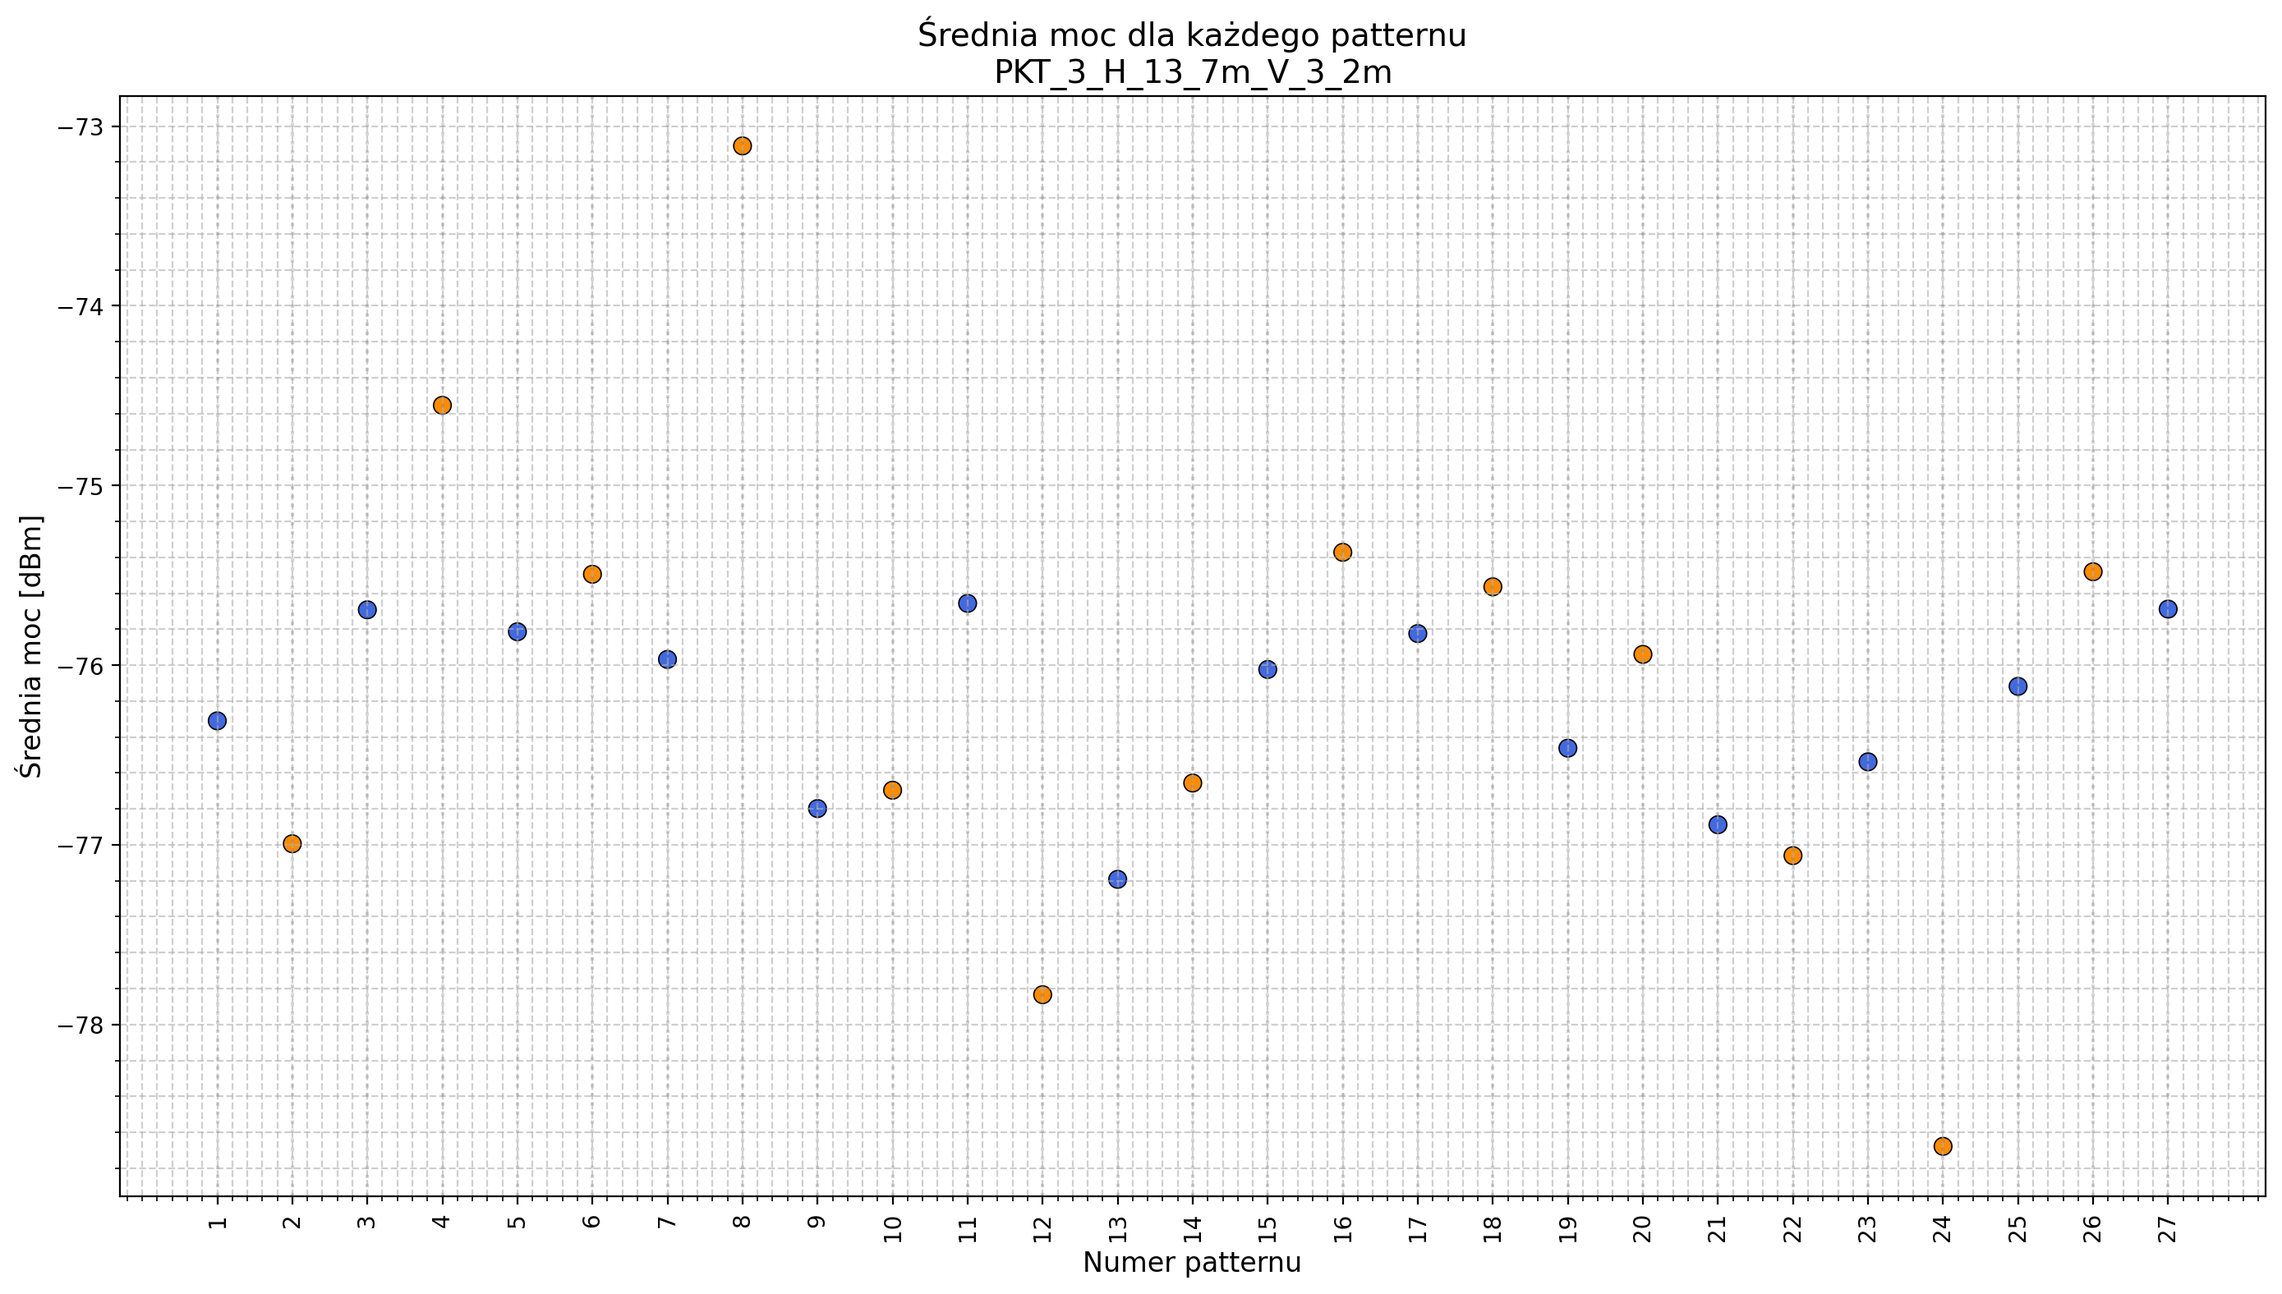
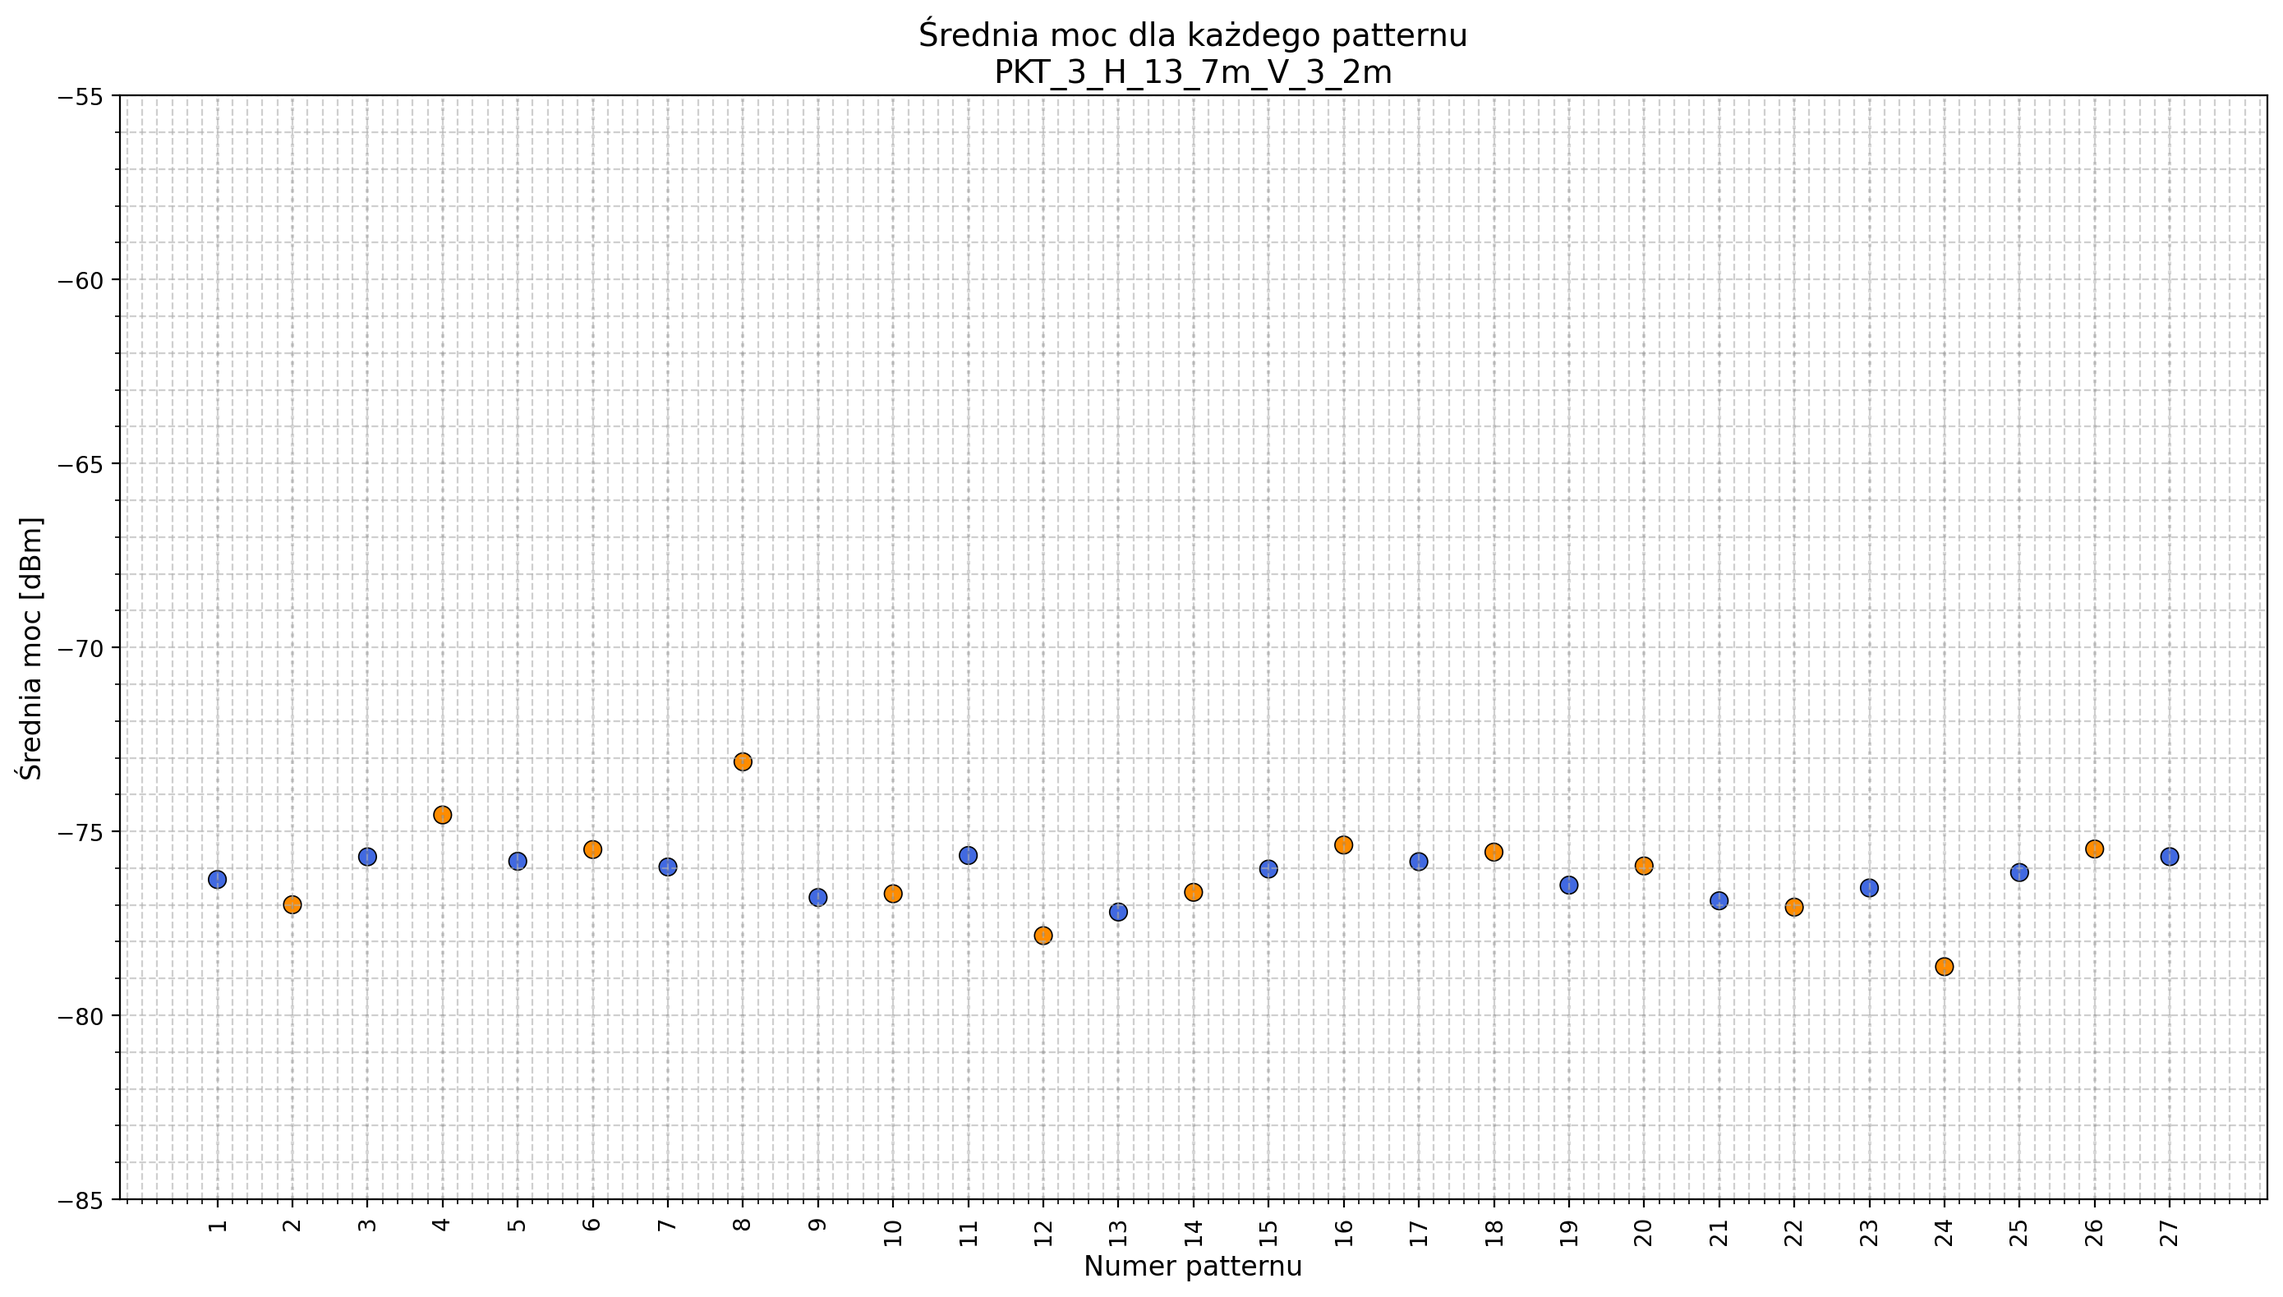
skale poprawione

diff --git a/DANE_Z_POMIAROW/KAKOLEWO_25/pazdziernik_pomiary/21_10_25/scenariusz_siatka/minmax.py b/DANE_Z_POMIAROW/KAKOLEWO_25/pazdziernik_pomiary/21_10_25/scenariusz_siatka/minmax.py
@@ -7,7 +7,9 @@ import re
 from tqdm import tqdm
 
 # Folder z plikami CSV
-input_dir = r"C:\Users\d0437921\Documents\GitHub\Python_RIS\DANE_Z_POMIAROW\KAKOLEWO_25\pazdziernik_pomiary\21_10_25\scenariusz_siatka"
+input_dir = (
+    r"DANE_Z_POMIAROW/KAKOLEWO_25/pazdziernik_pomiary/21_10_25/scenariusz_siatka"
+)
 
 # Folder na wykresy
 output_dir = os.path.join(input_dir, "wykresy")
@@ -15,24 +17,24 @@ os.makedirs(output_dir, exist_ok=True)
 
 # Lista plików CSV
 file_list = [
-    "C:\\Users\\d0437921\\Documents\\GitHub\\Python_RIS\\DANE_Z_POMIAROW\\KAKOLEWO_25\\pazdziernik_pomiary\\21_10_25\\scenariusz_siatka\\PKT_1_H_8_7m_V_3_5m.csv",
-    "C:\\Users\\d0437921\\Documents\\GitHub\\Python_RIS\\DANE_Z_POMIAROW\\KAKOLEWO_25\\pazdziernik_pomiary\\21_10_25\\scenariusz_siatka\\PKT_1_H_13_7m_V_1_2m.csv",
-    "C:\\Users\\d0437921\\Documents\\GitHub\\Python_RIS\\DANE_Z_POMIAROW\\KAKOLEWO_25\\pazdziernik_pomiary\\21_10_25\\scenariusz_siatka\\PKT_2_H_8_7m_V_3m.csv",
-    "C:\\Users\\d0437921\\Documents\\GitHub\\Python_RIS\\DANE_Z_POMIAROW\\KAKOLEWO_25\\pazdziernik_pomiary\\21_10_25\\scenariusz_siatka\\PKT_2_H_13_7m_V_2_5m.csv",
-    "C:\\Users\\d0437921\\Documents\\GitHub\\Python_RIS\\DANE_Z_POMIAROW\\KAKOLEWO_25\\pazdziernik_pomiary\\21_10_25\\scenariusz_siatka\\PKT_3_H_8_7m_V_4_2m.csv",
-    "C:\\Users\\d0437921\\Documents\\GitHub\\Python_RIS\\DANE_Z_POMIAROW\\KAKOLEWO_25\\pazdziernik_pomiary\\21_10_25\\scenariusz_siatka\\PKT_3_H_13_7m_V_3_2m.csv",
-    "C:\\Users\\d0437921\\Documents\\GitHub\\Python_RIS\\DANE_Z_POMIAROW\\KAKOLEWO_25\\pazdziernik_pomiary\\21_10_25\\scenariusz_siatka\\PKT_4_H_8_7m_V_2m.csv",
-    "C:\\Users\\d0437921\\Documents\\GitHub\\Python_RIS\\DANE_Z_POMIAROW\\KAKOLEWO_25\\pazdziernik_pomiary\\21_10_25\\scenariusz_siatka\\PKT_4_H_13_7m_V_2m.csv.csv",
-    "C:\\Users\\d0437921\\Documents\\GitHub\\Python_RIS\\DANE_Z_POMIAROW\\KAKOLEWO_25\\pazdziernik_pomiary\\21_10_25\\scenariusz_siatka\\PKT_5_H_8_7m_V_3m.csv",
-    "C:\\Users\\d0437921\\Documents\\GitHub\\Python_RIS\\DANE_Z_POMIAROW\\KAKOLEWO_25\\pazdziernik_pomiary\\21_10_25\\scenariusz_siatka\\PKT_5_H_13_7m_V_1_7m.csv",
-    "C:\\Users\\d0437921\\Documents\\GitHub\\Python_RIS\\DANE_Z_POMIAROW\\KAKOLEWO_25\\pazdziernik_pomiary\\21_10_25\\scenariusz_siatka\\PKT_6_H_8_7m_V_3m.csv",
-    "C:\\Users\\d0437921\\Documents\\GitHub\\Python_RIS\\DANE_Z_POMIAROW\\KAKOLEWO_25\\pazdziernik_pomiary\\21_10_25\\scenariusz_siatka\\PKT_6_H_13_7m_V_3_5m.csv",
-    "C:\\Users\\d0437921\\Documents\\GitHub\\Python_RIS\\DANE_Z_POMIAROW\\KAKOLEWO_25\\pazdziernik_pomiary\\21_10_25\\scenariusz_siatka\\PKT_7_H_8_7m_V_3_5m.csv.csv",
-    "C:\\Users\\d0437921\\Documents\\GitHub\\Python_RIS\\DANE_Z_POMIAROW\\KAKOLEWO_25\\pazdziernik_pomiary\\21_10_25\\scenariusz_siatka\\PKT_7_H_13_7m_V_1_9m.csv",
-    "C:\\Users\\d0437921\\Documents\\GitHub\\Python_RIS\\DANE_Z_POMIAROW\\KAKOLEWO_25\\pazdziernik_pomiary\\21_10_25\\scenariusz_siatka\\PKT_8_H_8_7m_V_3m.csv.csv",
-    "C:\\Users\\d0437921\\Documents\\GitHub\\Python_RIS\\DANE_Z_POMIAROW\\KAKOLEWO_25\\pazdziernik_pomiary\\21_10_25\\scenariusz_siatka\\PKT_8_H_13_7m_V_2m.csv",
-    "C:\\Users\\d0437921\\Documents\\GitHub\\Python_RIS\\DANE_Z_POMIAROW\\KAKOLEWO_25\\pazdziernik_pomiary\\21_10_25\\scenariusz_siatka\\PKT_9_H_8_7m_V_3_5m.csv",
-    "C:\\Users\\d0437921\\Documents\\GitHub\\Python_RIS\\DANE_Z_POMIAROW\\KAKOLEWO_25\\pazdziernik_pomiary\\21_10_25\\scenariusz_siatka\\PKT_9_H_13_7m_V_3_2m.csv",
+    "DANE_Z_POMIAROW/KAKOLEWO_25/pazdziernik_pomiary/21_10_25/scenariusz_siatka/PKT_1_H_8_7m_V_3_5m.csv",
+    "DANE_Z_POMIAROW/KAKOLEWO_25/pazdziernik_pomiary/21_10_25/scenariusz_siatka/PKT_1_H_13_7m_V_1_2m.csv",
+    "DANE_Z_POMIAROW/KAKOLEWO_25/pazdziernik_pomiary/21_10_25/scenariusz_siatka/PKT_2_H_8_7m_V_3m.csv",
+    "DANE_Z_POMIAROW/KAKOLEWO_25/pazdziernik_pomiary/21_10_25/scenariusz_siatka/PKT_2_H_13_7m_V_2_5m.csv",
+    "DANE_Z_POMIAROW/KAKOLEWO_25/pazdziernik_pomiary/21_10_25/scenariusz_siatka/PKT_3_H_8_7m_V_4_2m.csv",
+    "DANE_Z_POMIAROW/KAKOLEWO_25/pazdziernik_pomiary/21_10_25/scenariusz_siatka/PKT_3_H_13_7m_V_3_2m.csv",
+    "DANE_Z_POMIAROW/KAKOLEWO_25/pazdziernik_pomiary/21_10_25/scenariusz_siatka/PKT_4_H_8_7m_V_2m.csv",
+    "DANE_Z_POMIAROW/KAKOLEWO_25/pazdziernik_pomiary/21_10_25/scenariusz_siatka/PKT_4_H_13_7m_V_2m.csv.csv",
+    "DANE_Z_POMIAROW/KAKOLEWO_25/pazdziernik_pomiary/21_10_25/scenariusz_siatka/PKT_5_H_8_7m_V_3m.csv",
+    "DANE_Z_POMIAROW/KAKOLEWO_25/pazdziernik_pomiary/21_10_25/scenariusz_siatka/PKT_5_H_13_7m_V_1_7m.csv",
+    "DANE_Z_POMIAROW/KAKOLEWO_25/pazdziernik_pomiary/21_10_25/scenariusz_siatka/PKT_6_H_8_7m_V_3m.csv",
+    "DANE_Z_POMIAROW/KAKOLEWO_25/pazdziernik_pomiary/21_10_25/scenariusz_siatka/PKT_6_H_13_7m_V_3_5m.csv",
+    "DANE_Z_POMIAROW/KAKOLEWO_25/pazdziernik_pomiary/21_10_25/scenariusz_siatka/PKT_7_H_8_7m_V_3_5m.csv.csv",
+    "DANE_Z_POMIAROW/KAKOLEWO_25/pazdziernik_pomiary/21_10_25/scenariusz_siatka/PKT_7_H_13_7m_V_1_9m.csv",
+    "DANE_Z_POMIAROW/KAKOLEWO_25/pazdziernik_pomiary/21_10_25/scenariusz_siatka/PKT_8_H_8_7m_V_3m.csv.csv",
+    "DANE_Z_POMIAROW/KAKOLEWO_25/pazdziernik_pomiary/21_10_25/scenariusz_siatka/PKT_8_H_13_7m_V_2m.csv",
+    "DANE_Z_POMIAROW/KAKOLEWO_25/pazdziernik_pomiary/21_10_25/scenariusz_siatka/PKT_9_H_8_7m_V_3_5m.csv",
+    "DANE_Z_POMIAROW/KAKOLEWO_25/pazdziernik_pomiary/21_10_25/scenariusz_siatka/PKT_9_H_13_7m_V_3_2m.csv",
 ]
 
 # Układ punktów w macierzy 3x3
@@ -102,13 +104,15 @@ def process_heatmaps(file_list):
             min_nums,
             annot=min_texts,
             fmt="",
-            cmap="coolwarm",
+            cmap="viridis",
             cbar_kws={"label": "Moc [dBm]"},
             xticklabels=[1, 2, 3],
             yticklabels=[1, 2, 3],
             square=True,
             linewidths=0.5,
             linecolor="gray",
+            vmin=-90,  # 🔹 Minimalna wartość skali
+            vmax=-50,
         )
         plt.title(f"Mapa cieplna (MIN) - {group_name}")
         plt.xlabel("Kolumna PKT")
@@ -126,13 +130,15 @@ def process_heatmaps(file_list):
             max_nums,
             annot=max_texts,
             fmt="",
-            cmap="coolwarm",
+            cmap="viridis",
             cbar_kws={"label": "Moc [dBm]"},
             xticklabels=[1, 2, 3],
             yticklabels=[1, 2, 3],
             square=True,
             linewidths=0.5,
             linecolor="gray",
+            vmin=-90,  # 🔹 Minimalna wartość skali
+            vmax=-50,
         )
         plt.title(f"Mapa cieplna (MAX) - {group_name}")
         plt.xlabel("Kolumna PKT")

diff --git a/DANE_Z_POMIAROW/KAKOLEWO_25/pazdziernik_pomiary/21_10_25/scenariusz_siatka/wykresy.py b/DANE_Z_POMIAROW/KAKOLEWO_25/pazdziernik_pomiary/21_10_25/scenariusz_siatka/wykresy.py
@@ -5,24 +5,24 @@ from tqdm import tqdm
 
 # 🔧 Lista plików CSV do przetworzenia
 file_list = [
-    "C:\\Users\\d0437921\\Documents\\GitHub\\Python_RIS\\DANE_Z_POMIAROW\\KAKOLEWO_25\\pazdziernik_pomiary\\21_10_25\\scenariusz_siatka\\PKT_1_H_8_7m_V_3_5m.csv",
-    "C:\\Users\\d0437921\\Documents\\GitHub\\Python_RIS\\DANE_Z_POMIAROW\\KAKOLEWO_25\\pazdziernik_pomiary\\21_10_25\\scenariusz_siatka\\PKT_1_H_13_7m_V_1_2m.csv",
-    "C:\\Users\\d0437921\\Documents\\GitHub\\Python_RIS\\DANE_Z_POMIAROW\\KAKOLEWO_25\\pazdziernik_pomiary\\21_10_25\\scenariusz_siatka\\PKT_2_H_8_7m_V_3m.csv",
-    "C:\\Users\\d0437921\\Documents\\GitHub\\Python_RIS\\DANE_Z_POMIAROW\\KAKOLEWO_25\\pazdziernik_pomiary\\21_10_25\\scenariusz_siatka\\PKT_2_H_13_7m_V_2_5m.csv",
-    "C:\\Users\\d0437921\\Documents\\GitHub\\Python_RIS\\DANE_Z_POMIAROW\\KAKOLEWO_25\\pazdziernik_pomiary\\21_10_25\\scenariusz_siatka\\PKT_3_H_8_7m_V_4_2m.csv",
-    "C:\\Users\\d0437921\\Documents\\GitHub\\Python_RIS\\DANE_Z_POMIAROW\\KAKOLEWO_25\\pazdziernik_pomiary\\21_10_25\\scenariusz_siatka\\PKT_3_H_13_7m_V_3_2m.csv",
-    "C:\\Users\\d0437921\\Documents\\GitHub\\Python_RIS\\DANE_Z_POMIAROW\\KAKOLEWO_25\\pazdziernik_pomiary\\21_10_25\\scenariusz_siatka\\PKT_4_H_8_7m_V_2m.csv",
-    "C:\\Users\\d0437921\\Documents\\GitHub\\Python_RIS\\DANE_Z_POMIAROW\\KAKOLEWO_25\\pazdziernik_pomiary\\21_10_25\\scenariusz_siatka\\PKT_4_H_13_7m_V_2m.csv.csv",
-    "C:\\Users\\d0437921\\Documents\\GitHub\\Python_RIS\\DANE_Z_POMIAROW\\KAKOLEWO_25\\pazdziernik_pomiary\\21_10_25\\scenariusz_siatka\\PKT_5_H_8_7m_V_3m.csv",
-    "C:\\Users\\d0437921\\Documents\\GitHub\\Python_RIS\\DANE_Z_POMIAROW\\KAKOLEWO_25\\pazdziernik_pomiary\\21_10_25\\scenariusz_siatka\\PKT_5_H_13_7m_V_1_7m.csv",
-    "C:\\Users\\d0437921\\Documents\\GitHub\\Python_RIS\\DANE_Z_POMIAROW\\KAKOLEWO_25\\pazdziernik_pomiary\\21_10_25\\scenariusz_siatka\\PKT_6_H_8_7m_V_3m.csv",
-    "C:\\Users\\d0437921\\Documents\\GitHub\\Python_RIS\\DANE_Z_POMIAROW\\KAKOLEWO_25\\pazdziernik_pomiary\\21_10_25\\scenariusz_siatka\\PKT_6_H_13_7m_V_3_5m.csv",
-    "C:\\Users\\d0437921\\Documents\\GitHub\\Python_RIS\\DANE_Z_POMIAROW\\KAKOLEWO_25\\pazdziernik_pomiary\\21_10_25\\scenariusz_siatka\\PKT_7_H_8_7m_V_3_5m.csv.csv",
-    "C:\\Users\\d0437921\\Documents\\GitHub\\Python_RIS\\DANE_Z_POMIAROW\\KAKOLEWO_25\\pazdziernik_pomiary\\21_10_25\\scenariusz_siatka\\PKT_7_H_13_7m_V_1_9m.csv",
-    "C:\\Users\\d0437921\\Documents\\GitHub\\Python_RIS\\DANE_Z_POMIAROW\\KAKOLEWO_25\\pazdziernik_pomiary\\21_10_25\\scenariusz_siatka\\PKT_8_H_8_7m_V_3m.csv.csv",
-    "C:\\Users\\d0437921\\Documents\\GitHub\\Python_RIS\\DANE_Z_POMIAROW\\KAKOLEWO_25\\pazdziernik_pomiary\\21_10_25\\scenariusz_siatka\\PKT_8_H_13_7m_V_2m.csv",
-    "C:\\Users\\d0437921\\Documents\\GitHub\\Python_RIS\\DANE_Z_POMIAROW\\KAKOLEWO_25\\pazdziernik_pomiary\\21_10_25\\scenariusz_siatka\\PKT_9_H_8_7m_V_3_5m.csv",
-    "C:\\Users\\d0437921\\Documents\\GitHub\\Python_RIS\\DANE_Z_POMIAROW\\KAKOLEWO_25\\pazdziernik_pomiary\\21_10_25\\scenariusz_siatka\\PKT_9_H_13_7m_V_3_2m.csv",
+    "DANE_Z_POMIAROW/KAKOLEWO_25/pazdziernik_pomiary/21_10_25/scenariusz_siatka/PKT_1_H_8_7m_V_3_5m.csv",
+    "DANE_Z_POMIAROW/KAKOLEWO_25/pazdziernik_pomiary/21_10_25/scenariusz_siatka/PKT_1_H_13_7m_V_1_2m.csv",
+    "DANE_Z_POMIAROW/KAKOLEWO_25/pazdziernik_pomiary/21_10_25/scenariusz_siatka/PKT_2_H_8_7m_V_3m.csv",
+    "DANE_Z_POMIAROW/KAKOLEWO_25/pazdziernik_pomiary/21_10_25/scenariusz_siatka/PKT_2_H_13_7m_V_2_5m.csv",
+    "DANE_Z_POMIAROW/KAKOLEWO_25/pazdziernik_pomiary/21_10_25/scenariusz_siatka/PKT_3_H_8_7m_V_4_2m.csv",
+    "DANE_Z_POMIAROW/KAKOLEWO_25/pazdziernik_pomiary/21_10_25/scenariusz_siatka/PKT_3_H_13_7m_V_3_2m.csv",
+    "DANE_Z_POMIAROW/KAKOLEWO_25/pazdziernik_pomiary/21_10_25/scenariusz_siatka/PKT_4_H_8_7m_V_2m.csv",
+    "DANE_Z_POMIAROW/KAKOLEWO_25/pazdziernik_pomiary/21_10_25/scenariusz_siatka/PKT_4_H_13_7m_V_2m.csv.csv",
+    "DANE_Z_POMIAROW/KAKOLEWO_25/pazdziernik_pomiary/21_10_25/scenariusz_siatka/PKT_5_H_8_7m_V_3m.csv",
+    "DANE_Z_POMIAROW/KAKOLEWO_25/pazdziernik_pomiary/21_10_25/scenariusz_siatka/PKT_5_H_13_7m_V_1_7m.csv",
+    "DANE_Z_POMIAROW/KAKOLEWO_25/pazdziernik_pomiary/21_10_25/scenariusz_siatka/PKT_6_H_8_7m_V_3m.csv",
+    "DANE_Z_POMIAROW/KAKOLEWO_25/pazdziernik_pomiary/21_10_25/scenariusz_siatka/PKT_6_H_13_7m_V_3_5m.csv",
+    "DANE_Z_POMIAROW/KAKOLEWO_25/pazdziernik_pomiary/21_10_25/scenariusz_siatka/PKT_7_H_8_7m_V_3_5m.csv.csv",
+    "DANE_Z_POMIAROW/KAKOLEWO_25/pazdziernik_pomiary/21_10_25/scenariusz_siatka/PKT_7_H_13_7m_V_1_9m.csv",
+    "DANE_Z_POMIAROW/KAKOLEWO_25/pazdziernik_pomiary/21_10_25/scenariusz_siatka/PKT_8_H_8_7m_V_3m.csv.csv",
+    "DANE_Z_POMIAROW/KAKOLEWO_25/pazdziernik_pomiary/21_10_25/scenariusz_siatka/PKT_8_H_13_7m_V_2m.csv",
+    "DANE_Z_POMIAROW/KAKOLEWO_25/pazdziernik_pomiary/21_10_25/scenariusz_siatka/PKT_9_H_8_7m_V_3_5m.csv",
+    "DANE_Z_POMIAROW/KAKOLEWO_25/pazdziernik_pomiary/21_10_25/scenariusz_siatka/PKT_9_H_13_7m_V_3_2m.csv",
 ]
 
 
@@ -76,6 +76,9 @@ def process_files(file_list):
             plt.title(f"Średnia moc dla każdego patternu\n{base_name}", fontsize=14)
             plt.xlabel("Numer patternu", fontsize=12)
             plt.ylabel("Średnia moc [dBm]", fontsize=12)
+
+            # 🔹 Skala jednakowa dla wszystkich wykresów
+            plt.ylim(-85, -55)
 
             # 🔹 Pokazanie wszystkich numerów patternów na osi X
             plt.xticks(avg_df["pattern"], rotation=90)

diff --git a/DANE_Z_POMIAROW/KAKOLEWO_25/pazdziernik_pomiary/21_10_25/scenariusz_wysokosc/min_max.py b/DANE_Z_POMIAROW/KAKOLEWO_25/pazdziernik_pomiary/21_10_25/scenariusz_wysokosc/min_max.py
@@ -8,12 +8,13 @@ from tqdm import tqdm
 # ================================
 
 FILES = [
-    "C:\\Users\\d0437921\\Documents\\GitHub\\Python_RIS\\DANE_Z_POMIAROW\\KAKOLEWO_25\\pazdziernik_pomiary\\21_10_25\\scenariusz_wysokosc\\10m.csv",
-    "C:\\Users\\d0437921\\Documents\\GitHub\\Python_RIS\\DANE_Z_POMIAROW\\KAKOLEWO_25\\pazdziernik_pomiary\\21_10_25\\scenariusz_wysokosc\\20m.csv",
-    "C:\\Users\\d0437921\\Documents\\GitHub\\Python_RIS\\DANE_Z_POMIAROW\\KAKOLEWO_25\\pazdziernik_pomiary\\21_10_25\\scenariusz_wysokosc\\30m.csv",
-    "C:\\Users\\d0437921\\Documents\\GitHub\\Python_RIS\\DANE_Z_POMIAROW\\KAKOLEWO_25\\pazdziernik_pomiary\\21_10_25\\scenariusz_wysokosc\\40m.csv",
-    "C:\\Users\\d0437921\\Documents\\GitHub\\Python_RIS\\DANE_Z_POMIAROW\\KAKOLEWO_25\\pazdziernik_pomiary\\21_10_25\\scenariusz_wysokosc\\50m.csv",
+    "DANE_Z_POMIAROW/KAKOLEWO_25/pazdziernik_pomiary/21_10_25/scenariusz_wysokosc/10m.csv",
+    "DANE_Z_POMIAROW/KAKOLEWO_25/pazdziernik_pomiary/21_10_25/scenariusz_wysokosc/20m.csv",
+    "DANE_Z_POMIAROW/KAKOLEWO_25/pazdziernik_pomiary/21_10_25/scenariusz_wysokosc/30m.csv",
+    "DANE_Z_POMIAROW/KAKOLEWO_25/pazdziernik_pomiary/21_10_25/scenariusz_wysokosc/40m.csv",
+    "DANE_Z_POMIAROW/KAKOLEWO_25/pazdziernik_pomiary/21_10_25/scenariusz_wysokosc/50m.csv",
 ]
+
 
 OUTPUT_DIR = "wykresy"
 OUTPUT_FILE = os.path.join(OUTPUT_DIR, "moc_min_max.png")
@@ -22,7 +23,6 @@ OUTPUT_FILE = os.path.join(OUTPUT_DIR, "moc_min_max.png")
 # 📊 GŁÓWNY KOD
 # ================================
 
-# Utwórz folder, jeśli nie istnieje
 os.makedirs(OUTPUT_DIR, exist_ok=True)
 
 heights = []
@@ -48,7 +48,6 @@ for file in tqdm(FILES, desc="Pliki", ncols=80):
         file, sep=";", header=None, names=["col1", "pattern", "freq", "power"]
     )
 
-    # Znajdź min i max
     max_row = df.loc[df["power"].idxmax()]
     min_row = df.loc[df["power"].idxmin()]
 
@@ -64,12 +63,10 @@ for file in tqdm(FILES, desc="Pliki", ncols=80):
 
 plt.figure(figsize=(9, 6))
 
-# Wykres mocy maksymalnej
 plt.plot(heights, max_powers, marker="o", color="blue", label="Moc maksymalna")
 for x, y, p in zip(heights, max_powers, max_patterns):
     plt.text(x, y + 0.5, f"{p}", color="blue", fontsize=9, ha="center")
 
-# Wykres mocy minimalnej
 plt.plot(heights, min_powers, marker="o", color="red", label="Moc minimalna")
 for x, y, p in zip(heights, min_powers, min_patterns):
     plt.text(x, y - 1.0, f"{p}", color="red", fontsize=9, ha="center")
@@ -79,9 +76,9 @@ plt.ylabel("Moc odebrana [dBm]")
 plt.title("Moc minimalna i maksymalna dla różnych wysokości")
 plt.legend()
 plt.grid(True)
+plt.ylim(-100, -30)  # 📏 Równa skala osi Y
 plt.tight_layout()
 
-# Zapis wykresu
 plt.savefig(OUTPUT_FILE, dpi=300)
 plt.close()
 

diff --git a/DANE_Z_POMIAROW/KAKOLEWO_25/pazdziernik_pomiary/21_10_25/scenariusz_siatka/wykresy/heatmap.py b/DANE_Z_POMIAROW/KAKOLEWO_25/pazdziernik_pomiary/21_10_25/scenariusz_siatka/wykresy/heatmap.py
@@ -7,7 +7,7 @@ import re
 from tqdm import tqdm
 
 # 🔧 Folder z plikami _avg.csv
-input_dir = r"C:\Users\d0437921\Documents\GitHub\Python_RIS\DANE_Z_POMIAROW\KAKOLEWO_25\pazdziernik_pomiary\21_10_25\scenariusz_siatka\wykresy"
+input_dir = r"DANE_Z_POMIAROW/KAKOLEWO_25/pazdziernik_pomiary/21_10_25/scenariusz_siatka/wykresy/avg"
 
 # 🔧 Folder na wykresy
 output_dir = os.path.join(input_dir, "heatmaps_final")
@@ -74,7 +74,7 @@ def process_heatmaps(input_dir):
             heatmap_data = np.array(values_list).reshape(grid_size, grid_size)
             heatmap_texts = np.array(texts_list).reshape(grid_size, grid_size)
 
-            # Tworzenie heatmapy
+            # Tworzenie heatmapy z równą skalą kolorów
             plt.figure(figsize=(10, 9))
             sns.heatmap(
                 heatmap_data,
@@ -87,6 +87,8 @@ def process_heatmaps(input_dir):
                 linecolor="gray",
                 xticklabels=[1, 2, 3],
                 yticklabels=[1, 2, 3],
+                vmin=-90,  # 🔹 Minimalna wartość skali
+                vmax=-50,  # 🔹 Maksymalna wartość skali
             )
             plt.title(f"Pattern {pat} - H={height}")
             plt.xlabel("Kolumna PKT")
